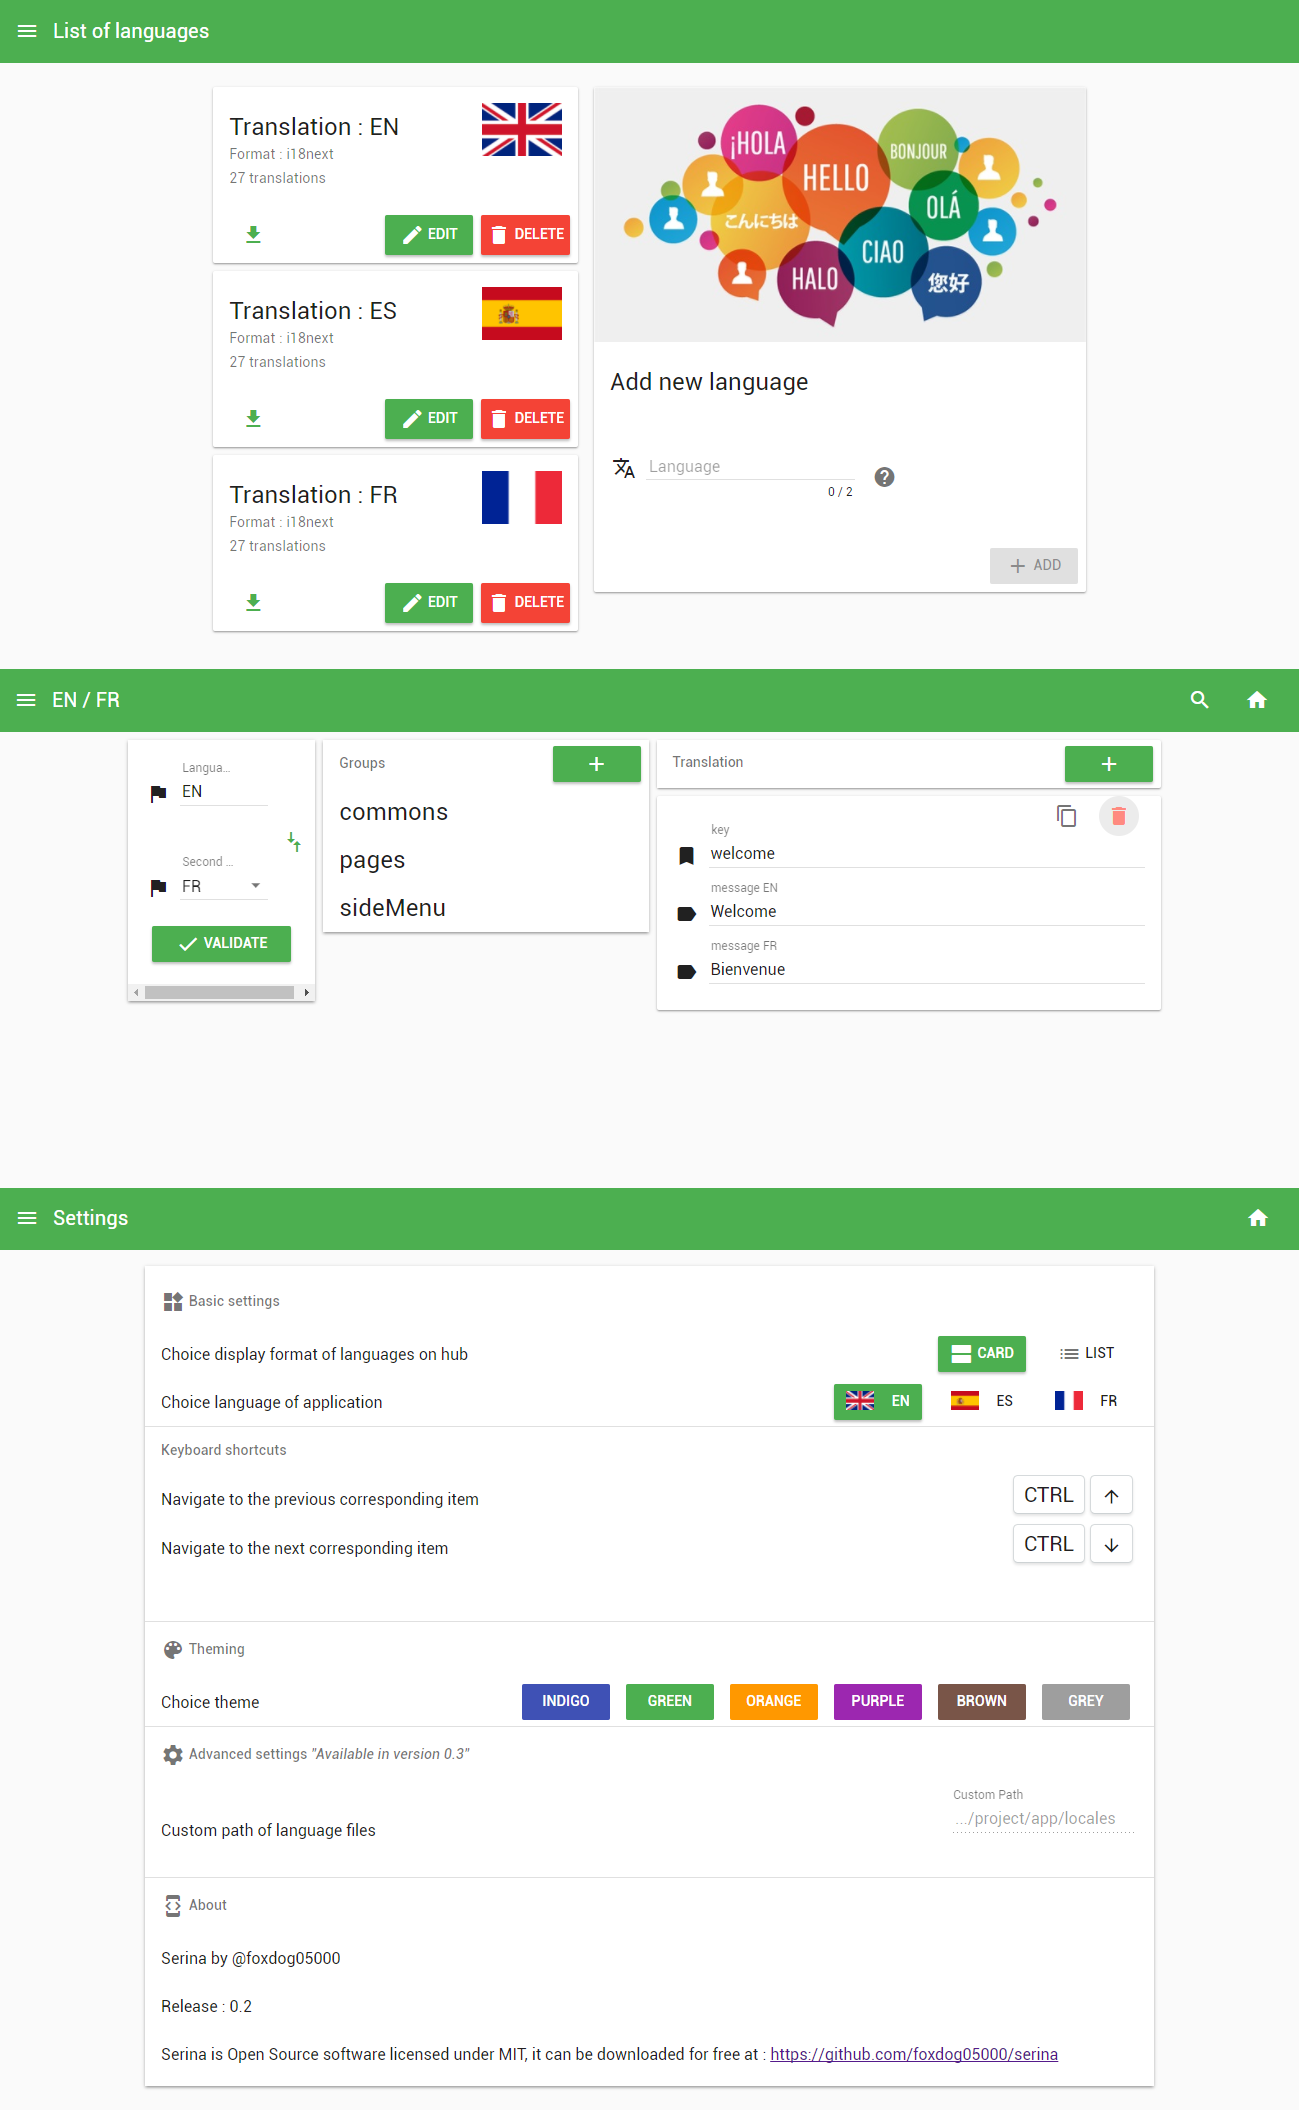
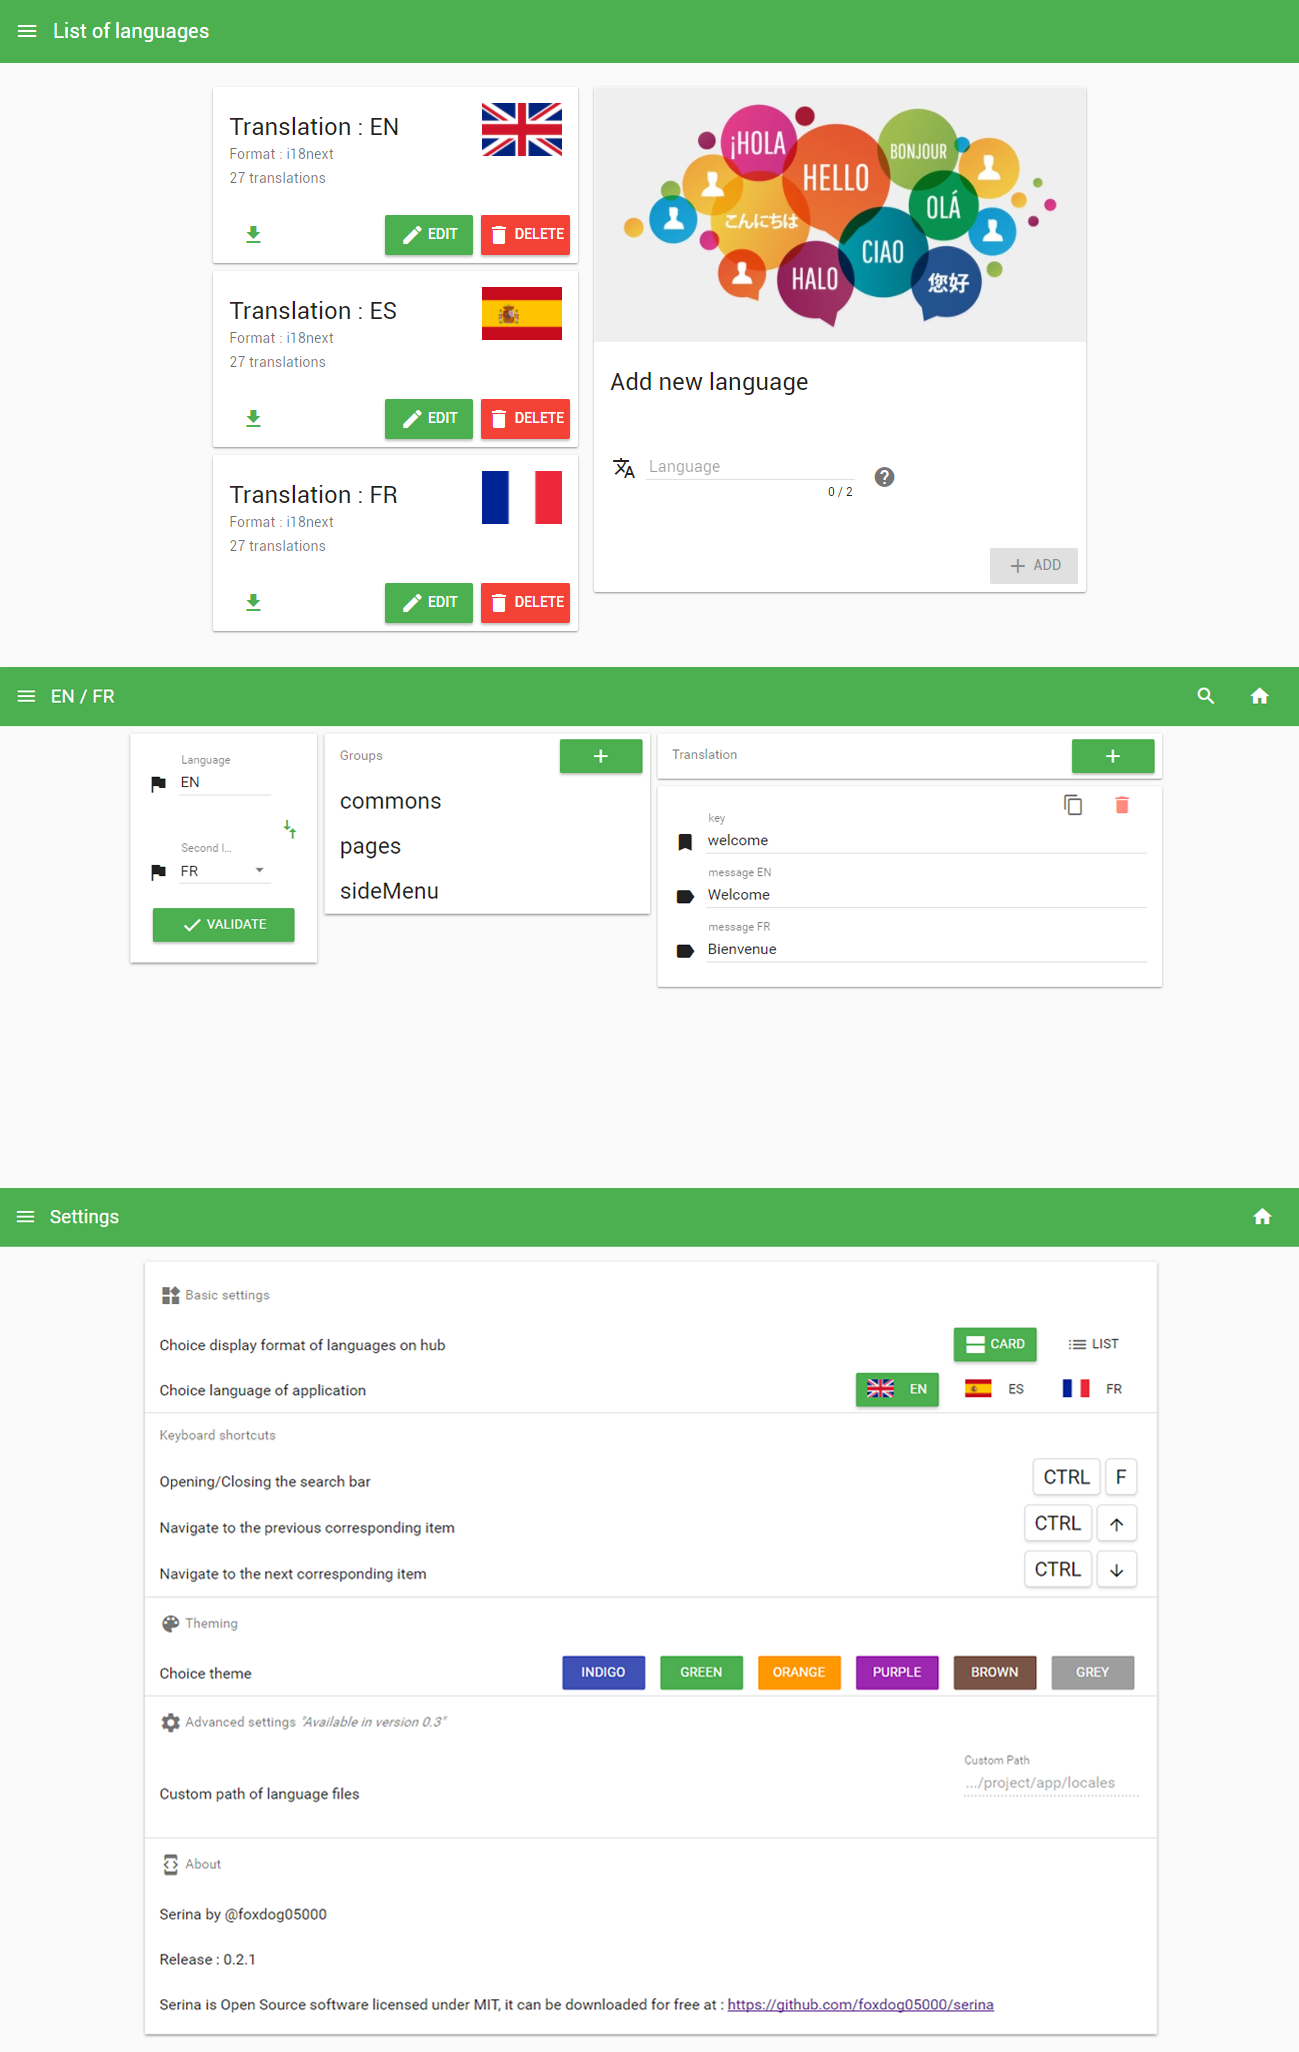
Maj sample and readme for R0.2.1

diff --git a/README.md b/README.md
@@ -8,7 +8,7 @@ Serina | GitHub page [here](https://foxdog05000.github.io/serina/)
 
 ![Serina Screenshot](https://raw.githubusercontent.com/foxdog05000/serina/master/sample.png)
 
-_Serina R0.2_
+_Serina R0.2.1_
 
 ## Download
 
